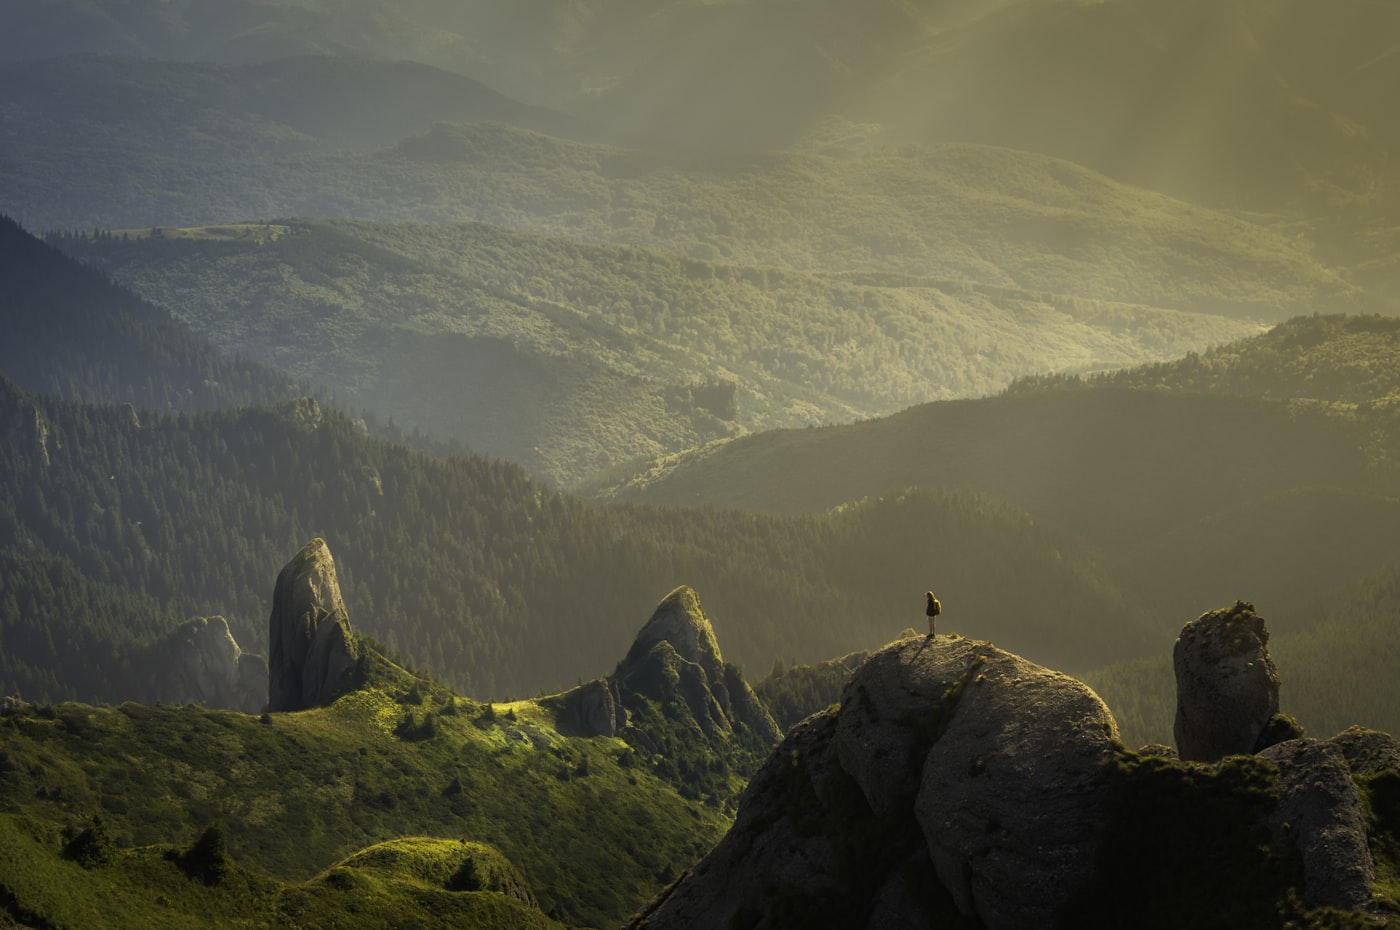
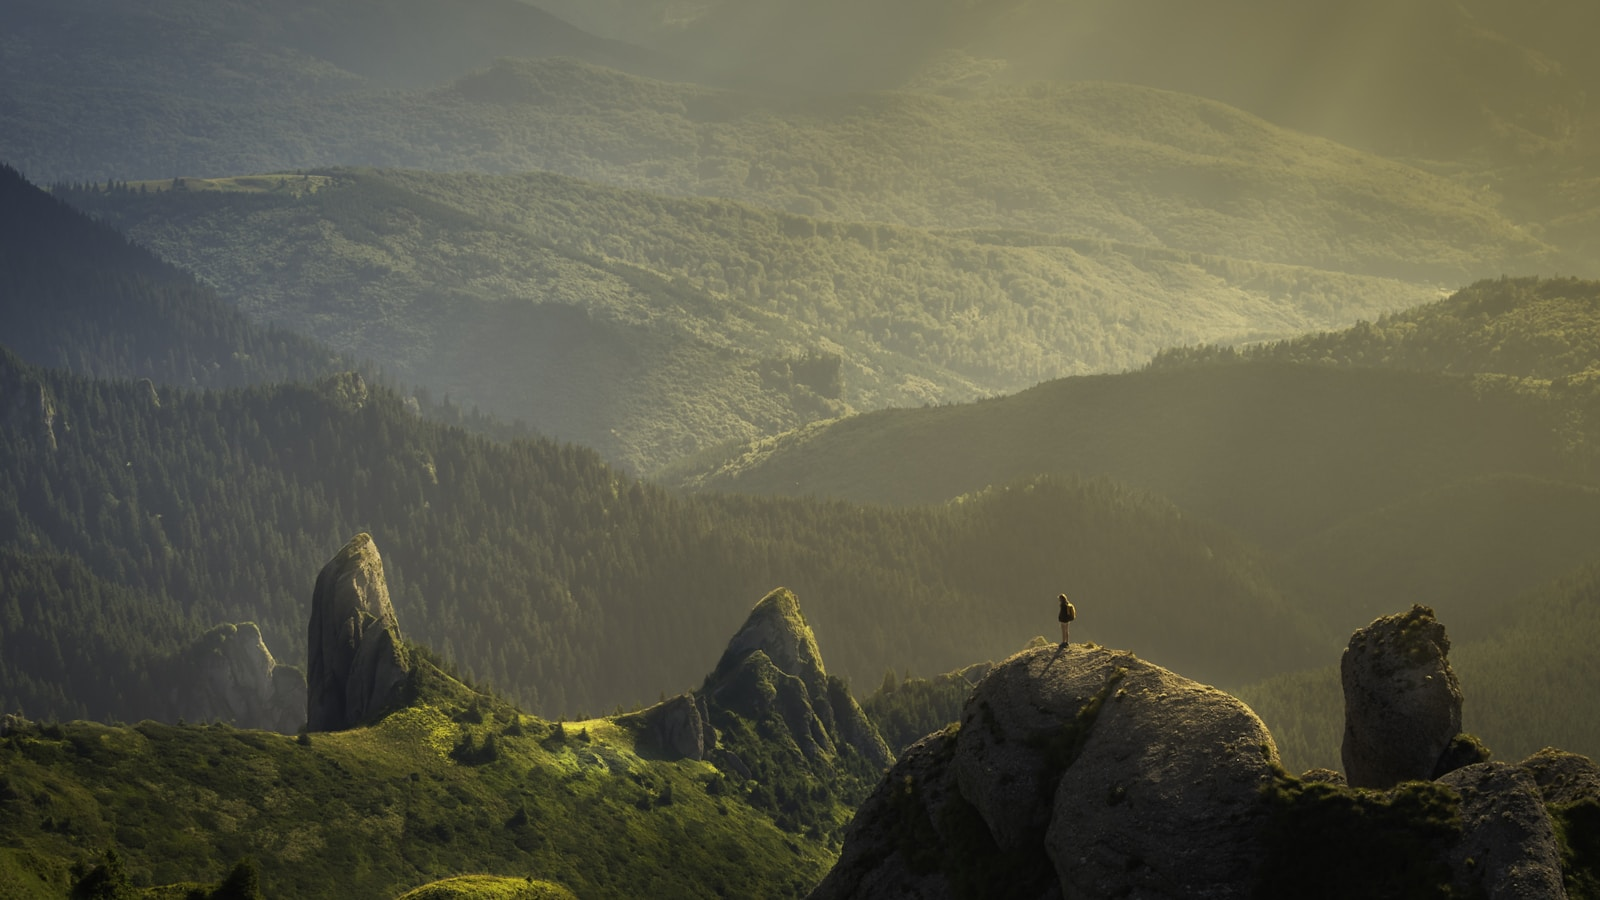
Blog update

diff --git a/lib/content/blog/covers.ts b/lib/content/blog/covers.ts
@@ -1,12 +1,12 @@
 /**
  * Обложки блога: фото с Unsplash (лицензия Unsplash — бесплатное использование).
- * Локальные копии: /public/blog/covers/{slug}.jpg
+ * Локальные копии: /public/blog/covers/{slug}.jpg (npm run blog:covers)
  * @see https://unsplash.com/license
  */
 export type BlogCover = {
-  /** Локальный путь (приоритет) */
+  /** Локальный путь (приоритет после npm run blog:covers) */
   localSrc: string;
-  /** Fallback: Unsplash CDN */
+  /** Unsplash CDN — 1600×900, crop, q=85 */
   remoteSrc: string;
   alt: string;
   photographer: string;
@@ -14,174 +14,160 @@ export type BlogCover = {
   unsplashUrl: string;
 };
 
+/** Высокое качество для карточек и hero */
+function coverUrl(photoId: string): string {
+  return `https://images.unsplash.com/photo-${photoId}?auto=format&fit=crop&w=1600&h=900&q=85`;
+}
+
 export const BLOG_COVERS: Record<string, BlogCover> = {
   'kak-vybrat-onlyfans-agentstvo': {
     localSrc: '/blog/covers/kak-vybrat-onlyfans-agentstvo.jpg',
-    remoteSrc:
-      'https://images.unsplash.com/photo-1521737711867-e3b97375f902?auto=format&fit=crop&w=1400&q=80',
-    alt: 'Команда обсуждает стратегию за столом',
+    remoteSrc: coverUrl('1521737711867-e3b97375f902'),
+    alt: 'Команда обсуждает стратегию выбора агентства',
     photographer: 'Brooke Cagle',
     photographerUrl: 'https://unsplash.com/@brookecagle',
     unsplashUrl: 'https://unsplash.com/photos/people-sitting-down-near-table-with-assorted-laptop-computers-G7CuPfG0MR4',
   },
   'chto-delaet-onlyfans-agentstvo': {
     localSrc: '/blog/covers/chto-delaet-onlyfans-agentstvo.jpg',
-    remoteSrc:
-      'https://images.unsplash.com/photo-1600880292203-757bb62b4baf?auto=format&fit=crop&w=1400&q=80',
-    alt: 'Коллеги работают вместе в офисе',
-    photographer: 'Austin Distel',
-    photographerUrl: 'https://unsplash.com/@austindistel',
-    unsplashUrl: 'https://unsplash.com/photos/man-and-woman-sitting-beside-table-while-using-laptop-computers-mpN7xjKQ_Ns',
+    remoteSrc: coverUrl('1522071820081-009f0129c71c'),
+    alt: 'Команда management за ноутбуками',
+    photographer: 'Headway',
+    photographerUrl: 'https://unsplash.com/@headwayio',
+    unsplashUrl: 'https://unsplash.com/photos/group-of-people-sitting-indoors-using-laptop-computers-5QgIuuBxKwM',
   },
   'kogda-nuzhno-onlyfans-agentstvo': {
     localSrc: '/blog/covers/kogda-nuzhno-onlyfans-agentstvo.jpg',
-    remoteSrc:
-      'https://images.unsplash.com/photo-1460925895917-afdab827c52f?auto=format&fit=crop&w=1400&q=80',
-    alt: 'Аналитика роста на экране ноутбука',
+    remoteSrc: coverUrl('1460925895917-afdab827c52f'),
+    alt: 'Графики роста — когда пора делегировать',
     photographer: 'Carlos Muza',
     photographerUrl: 'https://unsplash.com/@kmuza',
     unsplashUrl: 'https://unsplash.com/photos/turned-on-gray-laptop-computer-hpjSkU2UYSU',
   },
   'onlyfans-agentstvo-ukraina': {
     localSrc: '/blog/covers/onlyfans-agentstvo-ukraina.jpg',
-    remoteSrc:
-      'https://images.unsplash.com/photo-1469474968028-56623f02e42e?auto=format&fit=crop&w=1400&q=80',
-    alt: 'Городской пейзаж — удалённая работа модели',
+    remoteSrc: coverUrl('1469474968028-56623f02e42e'),
+    alt: 'Пейзаж и удалённая работа creator',
     photographer: 'Luca Bravo',
     photographerUrl: 'https://unsplash.com/@lucabravo',
     unsplashUrl: 'https://unsplash.com/photos/landscape-photography-of-mountains-4V8uMZx8FYA',
   },
   'onlyfans-agentstvo-moldova': {
     localSrc: '/blog/covers/onlyfans-agentstvo-moldova.jpg',
-    remoteSrc:
-      'https://images.unsplash.com/photo-1514565131-fce0801e5785?auto=format&fit=crop&w=1400&q=80',
-    alt: 'Городской вид — удалённая работа creator из Молдовы',
+    remoteSrc: coverUrl('1449824913935-59a10b8d2000'),
+    alt: 'Городская улица — удалённая работа в Молдове',
     photographer: 'Pedro Lastra',
     photographerUrl: 'https://unsplash.com/@peterlastera',
     unsplashUrl: 'https://unsplash.com/photos/city-buildings-under-white-clouds-during-daytime-Nyvq2JuFK4M',
   },
   'onlyfans-agentstvo-latinskaya-amerika': {
     localSrc: '/blog/covers/onlyfans-agentstvo-latinskaya-amerika.jpg',
-    remoteSrc:
-      'https://images.unsplash.com/photo-1518105777472-f99737774726?auto=format&fit=crop&w=1400&q=80',
-    alt: 'Панорама города — agencia OnlyFans Latinoamérica',
-    photographer: 'Rafael Nir',
-    photographerUrl: 'https://unsplash.com/@rafaelnir',
-    unsplashUrl: 'https://unsplash.com/photos/aerial-view-of-city-buildings-during-daytime-YOQDokJipFg',
+    remoteSrc: coverUrl('1506905925346-21bda4d32df4'),
+    alt: 'Яркий городской пейзаж — Latinoamérica',
+    photographer: 'Leonardo Yip',
+    photographerUrl: 'https://unsplash.com/@leoyip',
+    unsplashUrl: 'https://unsplash.com/photos/aerial-photography-of-city-at-night-21bda4d32df4',
   },
   'onlyfans-agentstvo-moshennichestvo': {
     localSrc: '/blog/covers/onlyfans-agentstvo-moshennichestvo.jpg',
-    remoteSrc:
-      'https://images.unsplash.com/photo-1563986768494-4dee2763ff3f?auto=format&fit=crop&w=1400&q=80',
-    alt: 'Смартфон и безопасность данных',
+    remoteSrc: coverUrl('1563013544-824ae1b704d3'),
+    alt: 'Кибербезопасность и защита от мошенничества',
     photographer: 'Adi Goldstein',
     photographerUrl: 'https://unsplash.com/@adigoldstein',
-    unsplashUrl: 'https://unsplash.com/photos/person-holding-smartphone-EUsVwEOsblE',
+    unsplashUrl: 'https://unsplash.com/photos/person-using-laptop-computer-holding-card-6j5JPW6JGps',
   },
   'onlyfans-marketing-strategiya-2026': {
     localSrc: '/blog/covers/onlyfans-marketing-strategiya-2026.jpg',
-    remoteSrc:
-      'https://images.unsplash.com/photo-1551288049-bebda4e38f71?auto=format&fit=crop&w=1400&q=80',
-    alt: 'Графики маркетинговой аналитики на мониторе',
+    remoteSrc: coverUrl('1551288049-bebda4e38f71'),
+    alt: 'Маркетинговая аналитика на экране',
     photographer: 'Luke Chesser',
     photographerUrl: 'https://unsplash.com/@lukechesser',
     unsplashUrl: 'https://unsplash.com/photos/graphs-of-performance-analytics-on-a-laptop-screen-PybchY6JPTM',
   },
   'onlyfans-prodvizhenie-reddit-twitter': {
     localSrc: '/blog/covers/onlyfans-prodvizhenie-reddit-twitter.jpg',
-    remoteSrc:
-      'https://images.unsplash.com/photo-1611162616305-c69b3fa7fbe0?auto=format&fit=crop&w=1400&q=80',
-    alt: 'Социальные сети на экране смартфона',
+    remoteSrc: coverUrl('1611162616305-c69b3fa7fbe0'),
+    alt: 'Социальные сети на смартфоне — Reddit и X',
     photographer: 'Alexander Shatov',
     photographerUrl: 'https://unsplash.com/@alexbemore',
     unsplashUrl: 'https://unsplash.com/photos/person-holding-black-samsung-android-smartphone-mr4Jm8XqKUA',
   },
   'onlyfans-instagram-tiktok-bez-bana': {
     localSrc: '/blog/covers/onlyfans-instagram-tiktok-bez-bana.jpg',
-    remoteSrc:
-      'https://images.unsplash.com/photo-1611262588024-d12430b98920?auto=format&fit=crop&w=1400&q=80',
-    alt: 'Мобильные приложения и контент',
-    photographer: 'Alexander Shatov',
-    photographerUrl: 'https://unsplash.com/@alexbemore',
-    unsplashUrl: 'https://unsplash.com/photos/pink-and-blue-light-illustration-8gYBMF1bQRU',
+    remoteSrc: coverUrl('1522202176988-66273c2fd55f'),
+    alt: 'Команда снимает контент для Reels и TikTok',
+    photographer: 'Christina @ wocintechchat.com',
+    photographerUrl: 'https://unsplash.com/@wocintechchat',
+    unsplashUrl: 'https://unsplash.com/photos/group-of-people-sitting-indoors-using-laptop-computers-MGaFENgeGRk',
   },
   'onlyfans-uderzhanie-podpischikov': {
     localSrc: '/blog/covers/onlyfans-uderzhanie-podpischikov.jpg',
-    remoteSrc:
-      'https://images.unsplash.com/photo-1552664730-d307ca884978?auto=format&fit=crop&w=1400&q=80',
-    alt: 'Командная работа и удержание клиентов',
+    remoteSrc: coverUrl('1552664730-d307ca884978'),
+    alt: 'Командная работа и удержание подписчиков',
     photographer: 'Jason Goodman',
     photographerUrl: 'https://unsplash.com/@jasongoodman_yoovrc',
     unsplashUrl: 'https://unsplash.com/photos/group-of-people-sitting-indoors-6awfTPLGaCE',
   },
   'onlyfans-chaty-dm-prodazhi': {
     localSrc: '/blog/covers/onlyfans-chaty-dm-prodazhi.jpg',
-    remoteSrc:
-      'https://images.unsplash.com/photo-1516321497487-e288fb19713f?auto=format&fit=crop&w=1400&q=80',
-    alt: 'Переписка и сообщения на смартфоне',
+    remoteSrc: coverUrl('1516321318423-f06f85e504b3'),
+    alt: 'Смартфон с уведомлениями — продажи в DM',
     photographer: 'Adem AY',
     photographerUrl: 'https://unsplash.com/@ademay',
     unsplashUrl: 'https://unsplash.com/photos/person-using-macbook-pro-on-white-table-AkPCE6S5nuc',
   },
   'onlyfans-tseny-podpiska-ppv': {
     localSrc: '/blog/covers/onlyfans-tseny-podpiska-ppv.jpg',
-    remoteSrc:
-      'https://images.unsplash.com/photo-1579621970795-87facc2f976d?auto=format&fit=crop&w=1400&q=80',
-    alt: 'Финансы и планирование дохода',
+    remoteSrc: coverUrl('1579621970795-87facc2f976d'),
+    alt: 'Монеты и ценообразование подписки',
     photographer: 'Michael Longmire',
     photographerUrl: 'https://unsplash.com/@longmirephoto',
     unsplashUrl: 'https://unsplash.com/photos/1-dollar-and-coins-on-white-surface-LNl6kF2A6fE',
   },
   'onlyfans-skolko-zarabatyvayut-modeli': {
     localSrc: '/blog/covers/onlyfans-skolko-zarabatyvayut-modeli.jpg',
-    remoteSrc:
-      'https://images.unsplash.com/photo-1554224154-26032ffc0d88?auto=format&fit=crop&w=1400&q=80',
-    alt: 'Калькулятор и учёт заработка',
+    remoteSrc: coverUrl('1504384308090-c894fdcc538d'),
+    alt: 'Ноутбук и планирование дохода creator',
     photographer: 'Kelly Sikkema',
     photographerUrl: 'https://unsplash.com/@kellysikkema',
     unsplashUrl: 'https://unsplash.com/photos/white-and-black-casio-calculator-3-tcBU6Y2OQ',
   },
   'onlyfans-agentstvo-dlya-nachinayushchih': {
     localSrc: '/blog/covers/onlyfans-agentstvo-dlya-nachinayushchih.jpg',
-    remoteSrc:
-      'https://images.unsplash.com/photo-1516035069370-29a1b244cc32?auto=format&fit=crop&w=1400&q=80',
-    alt: 'Камера для съёмки контента',
+    remoteSrc: coverUrl('1542038784456-1ea8e935640e'),
+    alt: 'Кольцевая лампа и съёмка — старт на OnlyFans',
     photographer: 'Annie Spratt',
     photographerUrl: 'https://unsplash.com/@anniespratt',
     unsplashUrl: 'https://unsplash.com/photos/black-dslr-camera-on-white-printer-paper-gohFDAPevsc',
   },
   'onlyfans-kontent-plan-i-syomki': {
     localSrc: '/blog/covers/onlyfans-kontent-plan-i-syomki.jpg',
-    remoteSrc:
-      'https://images.unsplash.com/photo-1492691529431-bc1f8e4f0b6b?auto=format&fit=crop&w=1400&q=80',
-    alt: 'Съёмка контента в студии',
-    photographer: 'Avel Chuklanov',
-    photographerUrl: 'https://unsplash.com/@herophotography',
-    unsplashUrl: 'https://unsplash.com/photos/man-in-black-jacket-holding-black-dslr-camera-5Yv29Ljy-xA',
+    remoteSrc: coverUrl('1600880292203-757bb62b4baf'),
+    alt: 'Планирование съёмок и контент-календарь',
+    photographer: 'Austin Distel',
+    photographerUrl: 'https://unsplash.com/@austindistel',
+    unsplashUrl: 'https://unsplash.com/photos/man-and-woman-sitting-beside-table-while-using-laptop-computers-mpN7xjKQ_Ns',
   },
   'onlyfans-oshibki-novichkov': {
     localSrc: '/blog/covers/onlyfans-oshibki-novichkov.jpg',
-    remoteSrc:
-      'https://images.unsplash.com/photo-1454165804606-c3d57bc86b40?auto=format&fit=crop&w=1400&q=80',
-    alt: 'Планирование и заметки на столе',
+    remoteSrc: coverUrl('1454165804606-c3d57bc86b40'),
+    alt: 'Заметки и планирование — типичные ошибки',
     photographer: 'Scott Graham',
     photographerUrl: 'https://unsplash.com/@homajob',
     unsplashUrl: 'https://unsplash.com/photos/person-writing-on-notebook-5fNmWej4tAA',
   },
   'onlyfans-anonimnost-i-bezopasnost': {
     localSrc: '/blog/covers/onlyfans-anonimnost-i-bezopasnost.jpg',
-    remoteSrc:
-      'https://images.unsplash.com/photo-1633265486064-086b219458ec?auto=format&fit=crop&w=1400&q=80',
-    alt: 'Замок и защита конфиденциальности',
+    remoteSrc: coverUrl('1633265486064-086b219458ec'),
+    alt: 'Защита данных и приватность аккаунта',
     photographer: 'Growtika',
     photographerUrl: 'https://unsplash.com/@growtika',
     unsplashUrl: 'https://unsplash.com/photos/a-computer-screen-with-a-lock-on-it-fz8Ff1-Lpo4',
   },
   'onlyfans-rabota-bez-lica': {
     localSrc: '/blog/covers/onlyfans-rabota-bez-lica.jpg',
-    remoteSrc:
-      'https://images.unsplash.com/photo-1507003211169-0a1dd7228f2d?auto=format&fit=crop&w=1400&q=80',
-    alt: 'Силуэт без идентификации лица',
+    remoteSrc: coverUrl('1507003211169-0a1dd7228f2d'),
+    alt: 'Силуэт creator без показа лица',
     photographer: 'Aiony Haust',
     photographerUrl: 'https://unsplash.com/@aiony',
     unsplashUrl: 'https://unsplash.com/photos/man-in-black-button-up-shirt-K5dqlqKcF4Q',

diff --git a/public/blog/covers/README.md b/public/blog/covers/README.md
@@ -7,3 +7,5 @@
 - Атрибуция не обязательна, но указана на сайте у каждой статьи
 
 Авторы и ссылки на оригиналы — в `lib/content/blog/covers.ts`.
+
+Обновить все JPG локально: `npm run blog:covers` (1600×900, q=85).
